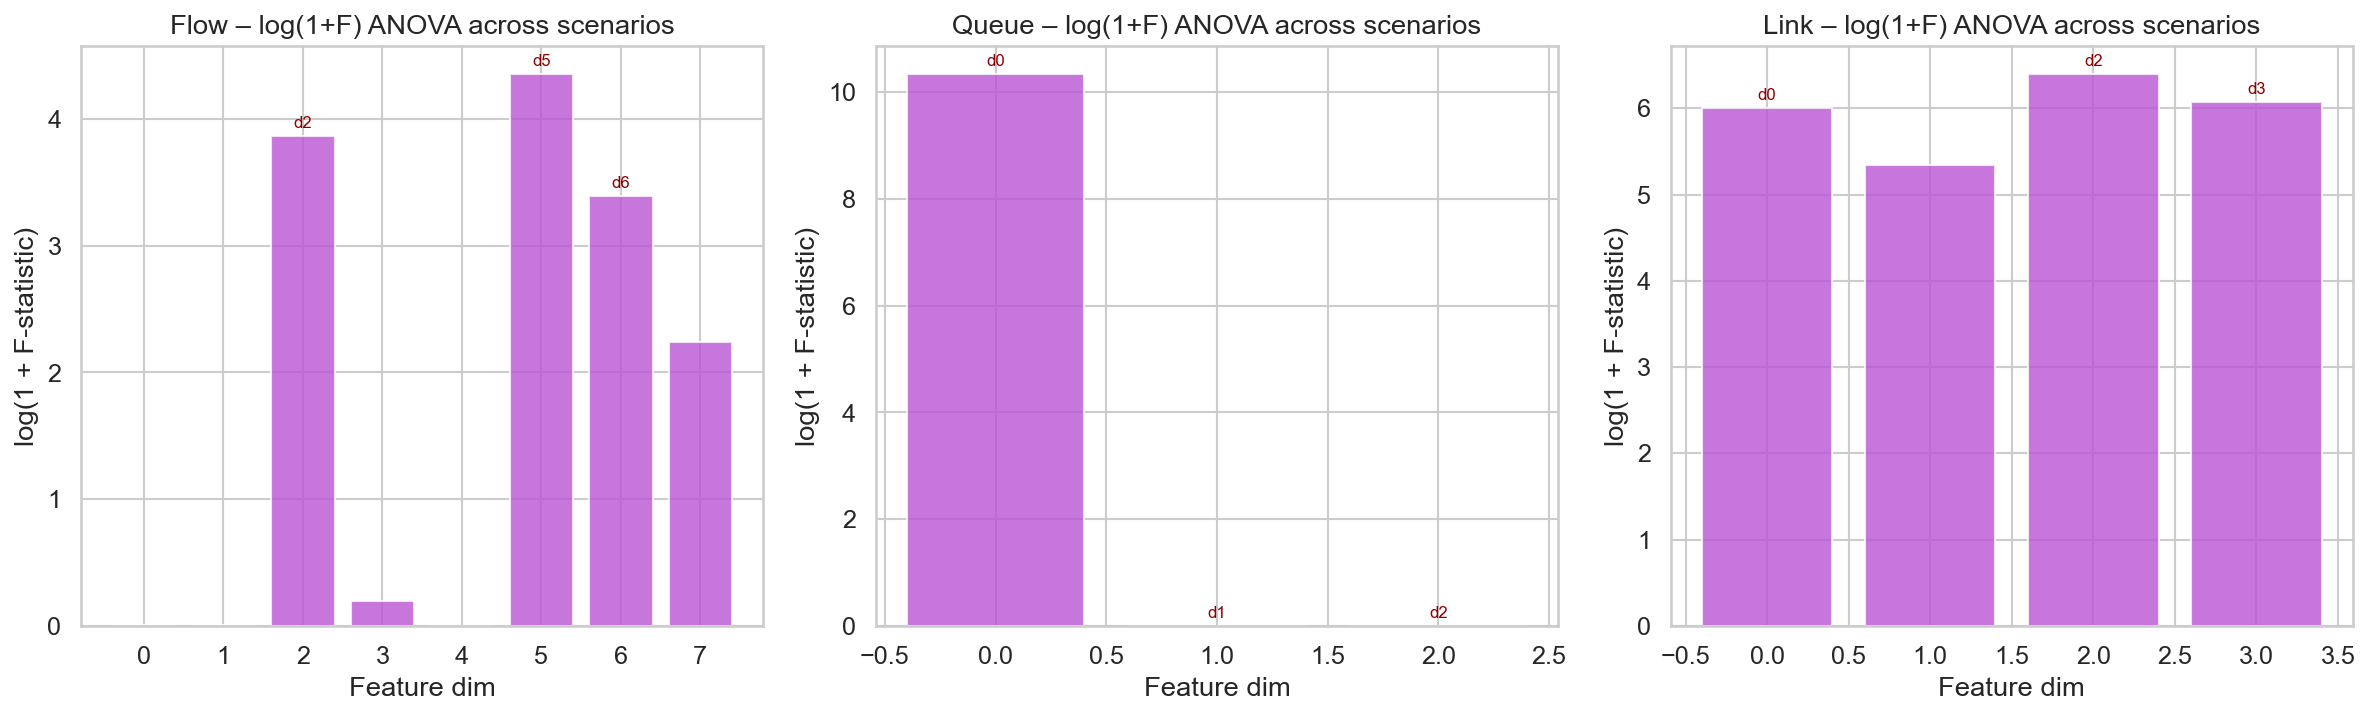
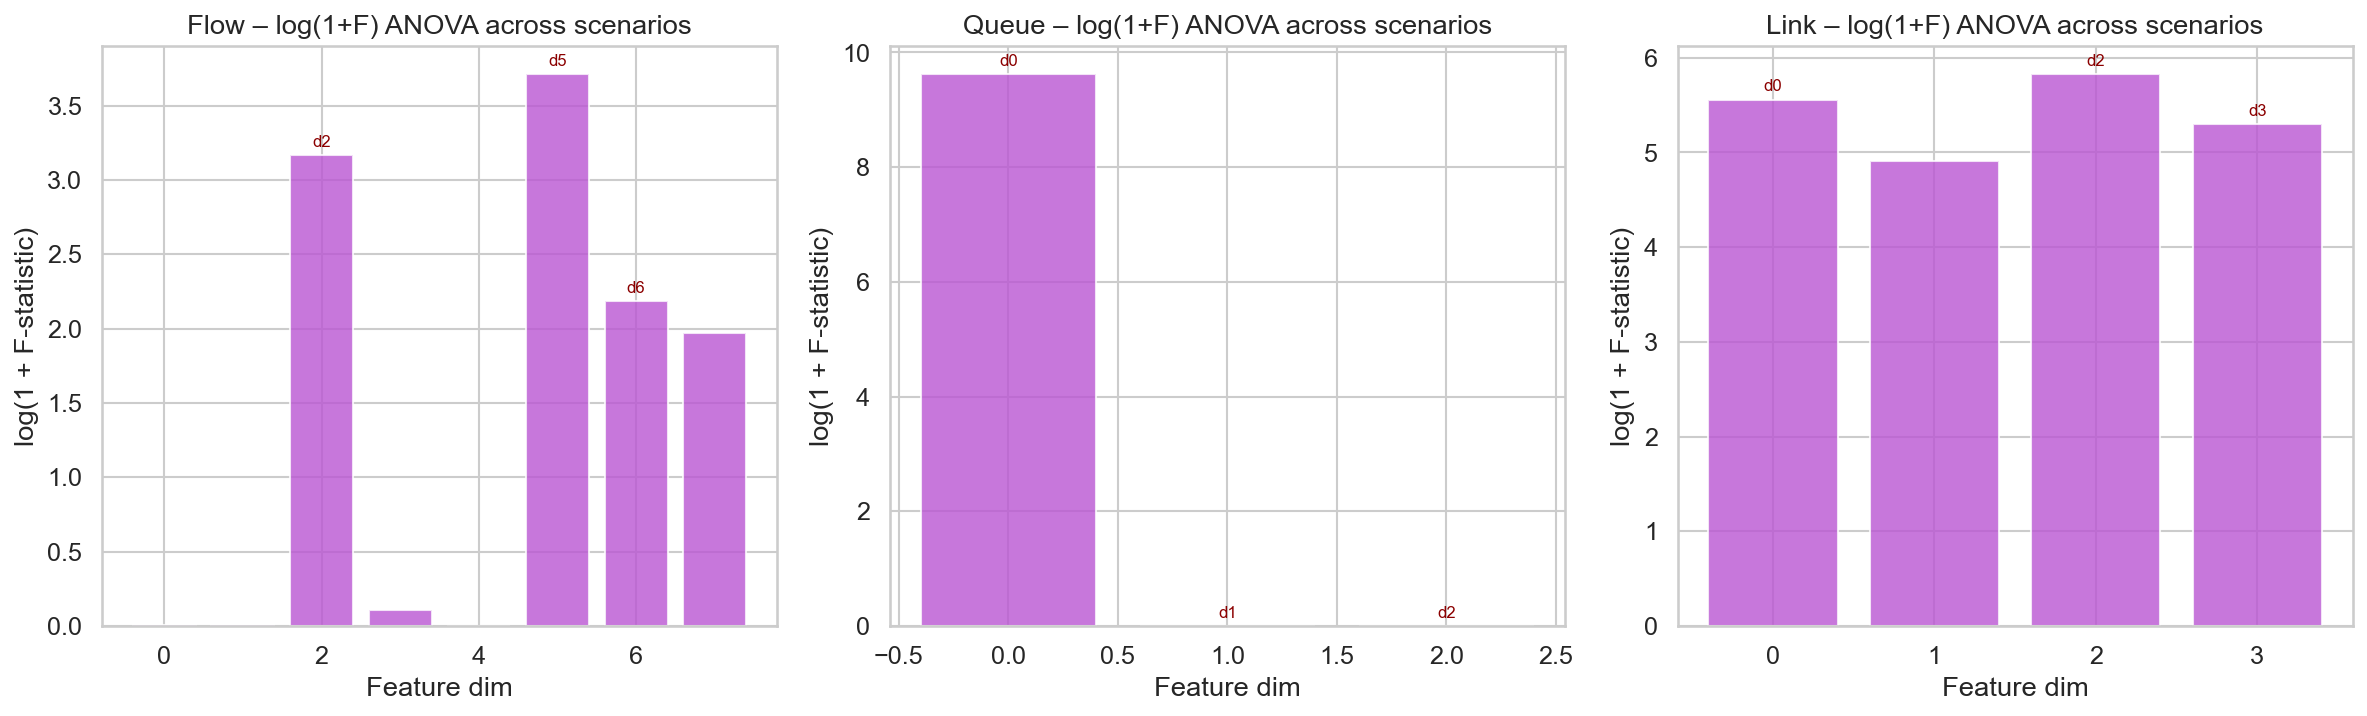
delay rlc add

diff --git a/wireless_gnn/dataset.py b/wireless_gnn/dataset.py
@@ -40,7 +40,6 @@ class FeatureNormalizer:
         self.link_mean  = self.link_std  = None
         self.delay_mean = self.delay_std = None
         self.tput_mean  = self.tput_std  = None
-        self.delay_threshold_95 = None
 
     def accumulate(self, graph: dict):
         self._flow_vals.append(graph["flow_feat"])
@@ -60,18 +59,7 @@ class FeatureNormalizer:
         self.flow_mean,  self.flow_std  = _ms(self._flow_vals)
         self.queue_mean, self.queue_std = _ms(self._queue_vals)
         self.link_mean,  self.link_std  = _ms(self._link_vals)
-        
-        # Delay: compute 95th percentile threshold and compute mean/std excluding extreme outliers
-        delay_arr = np.concatenate(self._delay_vals, axis=0)
-        self.delay_threshold_95 = float(np.percentile(delay_arr, 95))
-        filtered_delays = delay_arr[delay_arr <= self.delay_threshold_95]
-        
-        m_delay = filtered_delays.mean(axis=0)
-        s_delay = filtered_delays.std(axis=0)
-        s_delay = np.where(s_delay < eps, 1.0, s_delay)
-        self.delay_mean = m_delay.astype(np.float32)
-        self.delay_std  = s_delay.astype(np.float32)
-        
+        self.delay_mean, self.delay_std = _ms(self._delay_vals)
         self.tput_mean,  self.tput_std  = _ms(self._tput_vals)
         self.fitted = True
 
@@ -140,7 +128,26 @@ def load_all_snapshots(project_root: str) -> List[dict]:
 
         print(f"[dataset]   -> {n_valid}/{len(data)} valid snapshots")
 
-    print(f"[dataset] Total samples: {len(all_graphs)}")
+    print(f"[dataset] Total samples before filtering: {len(all_graphs)}")
+    
+    # --- Delete outlier snapshots (max delay > 95th percentile) ---
+    all_delays = []
+    for g in all_graphs:
+        all_delays.extend(g["target_delay"])
+    
+    if all_delays:
+        threshold_95 = float(np.percentile(all_delays, 95))
+        print(f"[dataset] 95th percentile delay threshold: {threshold_95:.5f}s")
+        
+        filtered_graphs = []
+        for g in all_graphs:
+            if max(g["target_delay"]) <= threshold_95:
+                filtered_graphs.append(g)
+        
+        print(f"[dataset] Filtered out {len(all_graphs) - len(filtered_graphs)} outlier snapshots.")
+        all_graphs = filtered_graphs
+    
+    print(f"[dataset] Total samples after filtering: {len(all_graphs)}")
     return all_graphs
 
 

diff --git a/wireless_gnn/graph_builder.py b/wireless_gnn/graph_builder.py
@@ -75,10 +75,9 @@ def build_graph(snapshot: dict) -> Optional[dict]:
                     5  harq_error_rate      (ratio [0,1])
                     6  harq_tx_attempts     (average HARQ rounds per TB)
                     7  delivery_ratio       (sentPacketToUpperLayer / receivedPacketFromLowerLayer)
-    queue_feat  : np.ndarray  [n_queues, 3]
-                    0  rlcDelay             (seconds, max over flows for this UE)
-                    1  qsize_bytes          (bytes)
-                    2  mac_buffer_overflow  (bool 0/1 — buffer saturation flag)
+    queue_feat  : np.ndarray  [n_queues, 2]
+                    0  qsize_bytes          (bytes)
+                    1  mac_buffer_overflow  (bool 0/1 — buffer saturation flag)
     link_feat   : np.ndarray  [n_links, 4]   (sinr_dl, sinr_ul, distance, speed)
 
     flow_to_queue  : np.ndarray [n_flows]         flow_i → queue index
@@ -192,7 +191,7 @@ def build_graph(snapshot: dict) -> Optional[dict]:
             delivery_ratio,                       # end-to-end delivery ratio
         ])
         flow_to_queue_list.append(queue_idx_map[ue_int])
-        target_delay_list.append(float(f.get("delay",      0)))
+        target_delay_list.append(float(f.get("delay", 0)) + float(f.get("rlcDelay", 0)))
         target_throughput_list.append(float(f.get("throughput", 0)))
 
     if not flow_feat_list:
@@ -211,10 +210,7 @@ def build_graph(snapshot: dict) -> Optional[dict]:
         ue_id  = ue_id_for_int[ue_int]
         ue_node = ue_info.get(ue_id, {})
 
-        # rlcDelay: take max from all flows for this UE
         ue_flows = [f for f in active_flows if _flow_ue_index(f["dst"]) == ue_int]
-        rlc_delay = max((f.get("rlcDelay", 0) for f in ue_flows), default=0.0)
-
         qsize_bytes = _parse_qsize_bytes(ue_node.get("qsize", "10MiB"))
 
         # macBufferOverflow: 1 if any flow for this UE overflowed the MAC buffer
@@ -222,7 +218,7 @@ def build_graph(snapshot: dict) -> Optional[dict]:
             any(f.get("macBufferOverflow", 0) > 0 for f in ue_flows)
         )
 
-        queue_feat_list.append([float(rlc_delay), qsize_bytes, mac_overflow])
+        queue_feat_list.append([qsize_bytes, mac_overflow])
 
         # Queue → Link
         gnb_id = ue_node.get("serving_gnb", "none")

diff --git a/wireless_gnn/train.py b/wireless_gnn/train.py
@@ -57,17 +57,6 @@ def process_graph(
         std  = torch.tensor(normalizer.delay_std,  device=device)
         true = torch.tensor(np.asarray(graph["target_delay"]),
                             dtype=torch.float32, device=device)
-        
-        # Mask out 95th percentile outliers
-        if hasattr(normalizer, 'delay_threshold_95') and normalizer.delay_threshold_95 is not None:
-            mask = true <= normalizer.delay_threshold_95
-            if not mask.any():
-                # If all are outliers in this graph (rare), keep the lowest to avoid NaN loss
-                mask[torch.argmin(true)] = True
-            
-            true = true[mask]
-            pred = pred[mask]
-
     else:
         mean = torch.tensor(normalizer.tput_mean, device=device)
         std  = torch.tensor(normalizer.tput_std,  device=device)

diff --git a/wireless_gnn/model.py b/wireless_gnn/model.py
@@ -34,7 +34,7 @@ from typing import Optional
 # --------------------------------------------------------------------------- #
 FLOW_FEAT_DIM  = 8   # packet_size, interval, throughput, offered_load,
                       # packet_loss, harq_error_rate, harq_tx_attempts, delivery_ratio
-QUEUE_FEAT_DIM = 3   # rlcDelay, qsize_bytes, mac_buffer_overflow
+QUEUE_FEAT_DIM = 2   # qsize_bytes, mac_buffer_overflow
 LINK_FEAT_DIM  = 4   # sinr_dl, sinr_ul, distance, speed
 
 
